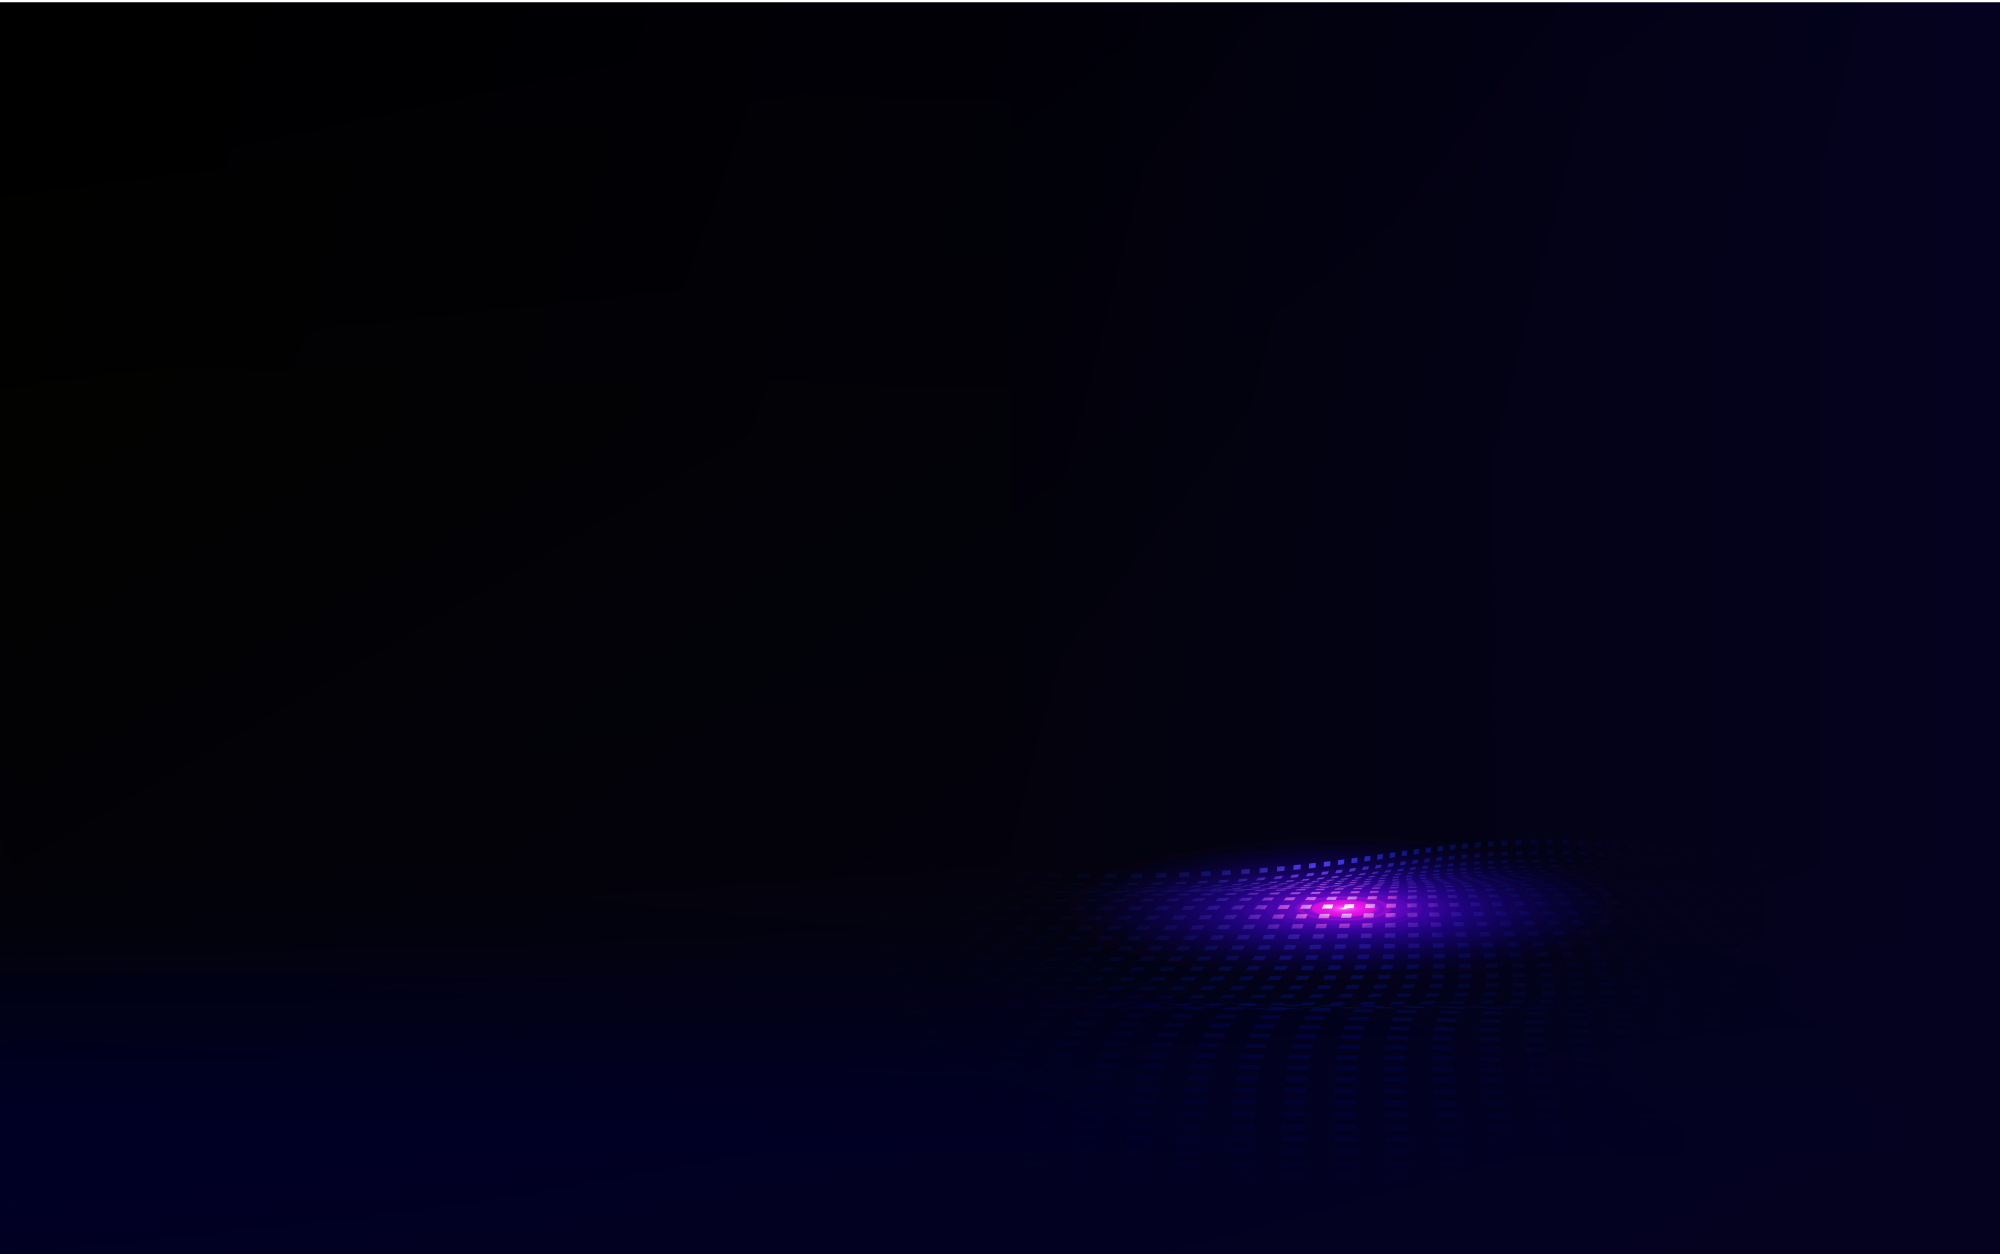
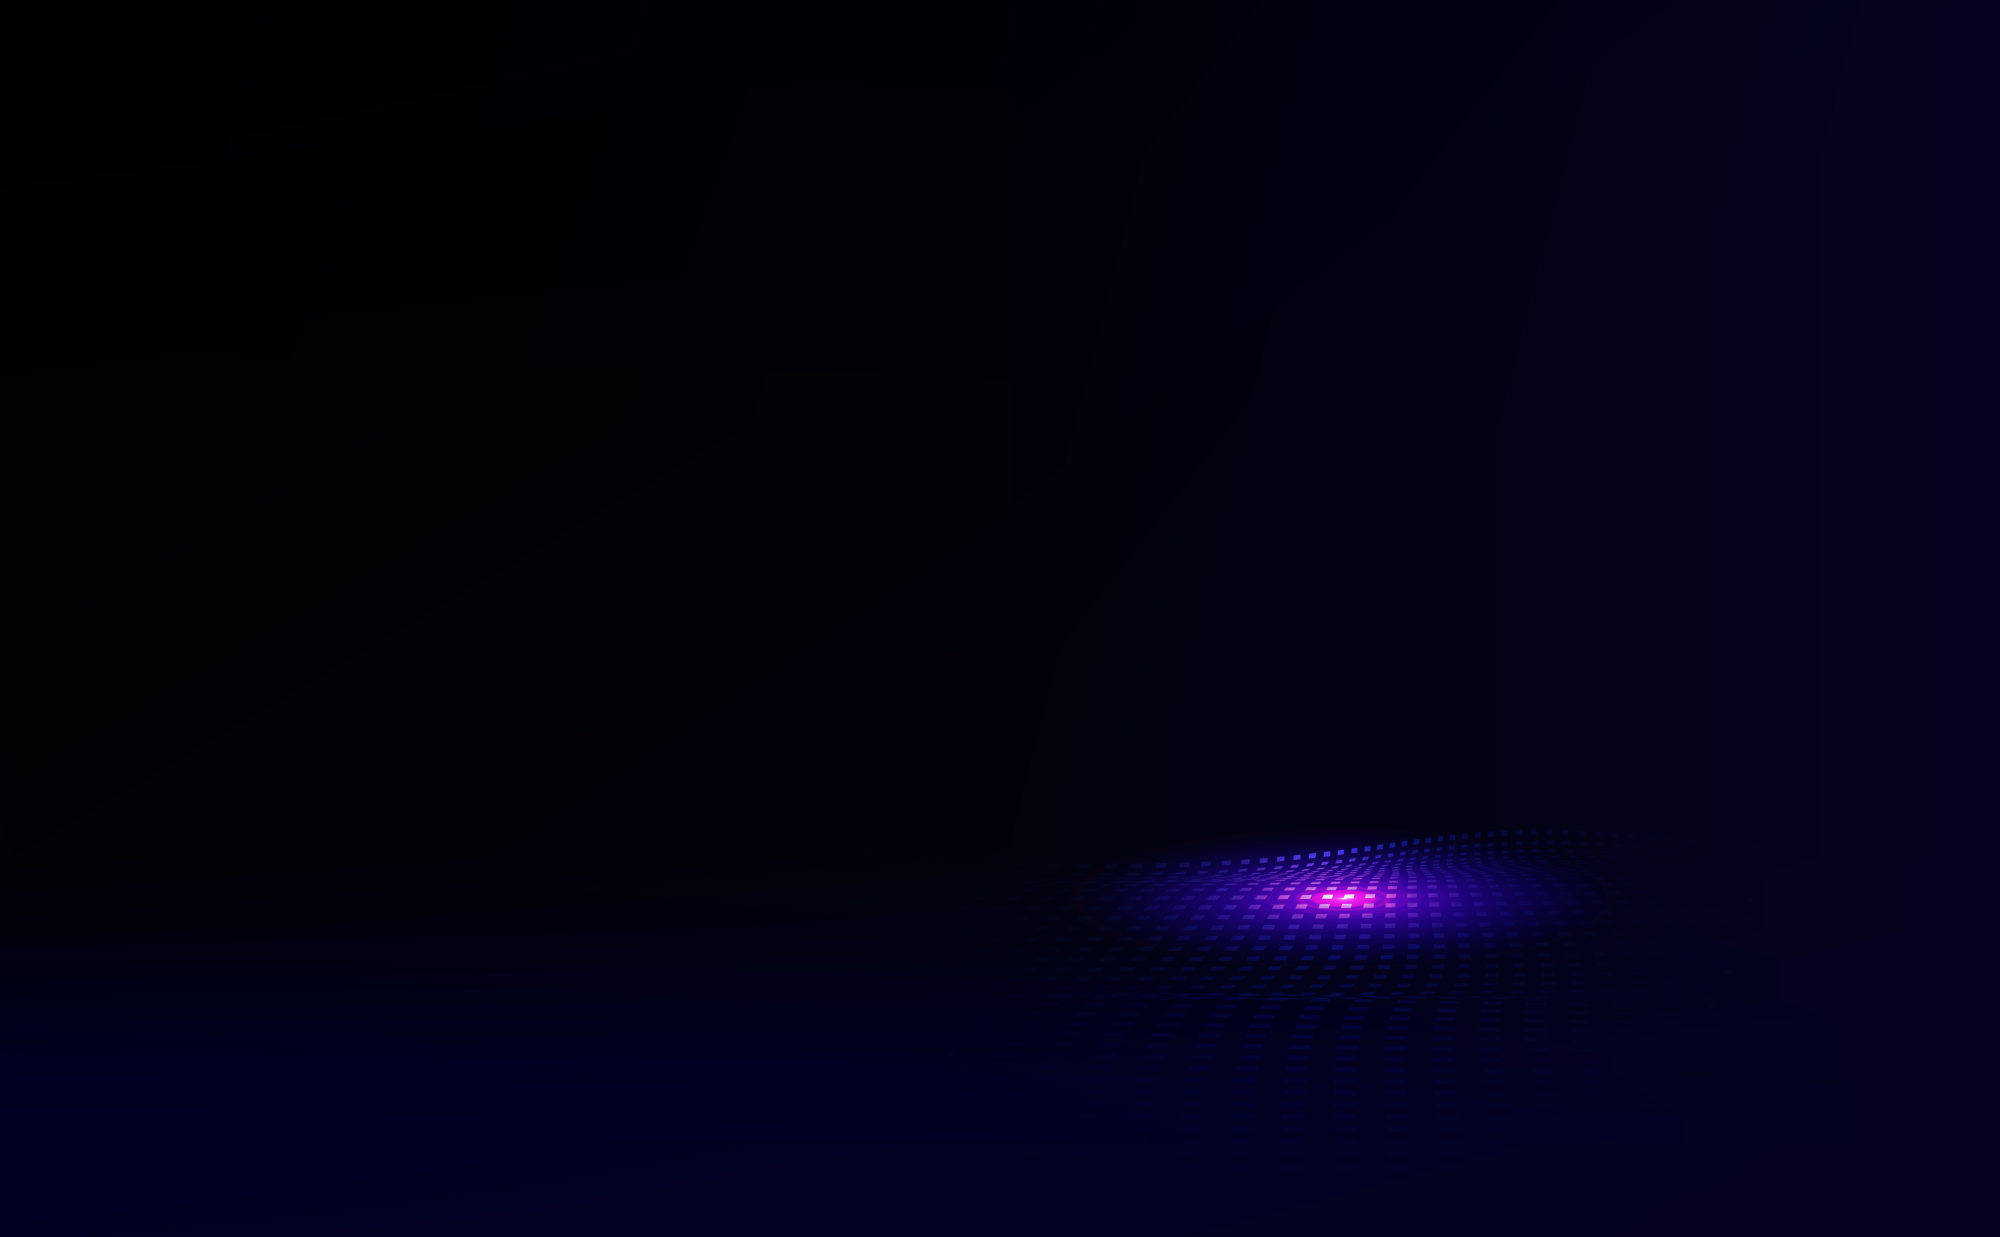
some changes

Changed region(s): [[0.589, 0.6758, 0.744, 0.8601]]

diff --git a/css/index.css b/css/index.css
@@ -15,13 +15,13 @@ html {
 /* ------------------ HERO ------------------ */
 
 .hero {
+  min-height: 100vh;
   display: grid;
   grid-template-rows: 1fr 2fr 1fr;
   grid-template-columns: 1fr 1fr;
-  height: 100vh;
   align-items: center;
   background: url(../images/background.png);
-  background-position: left;
+  background-position: center;
   background-size: cover;
   color: white;
 }
@@ -40,16 +40,17 @@ html {
 }
 
 .hero-info h2 {
+  margin-bottom: 2rem;
   font-family: 'Poppins', sans-serif;
   font-weight: bold;
   font-size: 3rem;
   text-transform: uppercase;
   letter-spacing: 0.115em;
   line-height: 4rem;
-  margin-bottom: 2rem;
 }
 
 .hero-info p {
+  font-size: 20px;
   line-height: 2rem;
 }
 
@@ -121,10 +122,6 @@ html {
     font-size: 2rem;
     line-height: 2.5rem;
   }
-
-  .hero #particles {
-    width: 18rem;
-  }
 }
 
 /* ------------------ ABOUT ------------------ */
@@ -152,6 +149,7 @@ html {
 
 .about p {
   margin-bottom: 2rem;
+  font-size: 18px;
   line-height: 144.6%;
 }
 
@@ -198,9 +196,9 @@ html {
   display: grid;
   grid-template-columns: 1fr 1fr;
   align-items: center;
+  padding: 10rem 0;
   background-color: #010004;
   color: white;
-  padding: 10rem 0;
 }
 
 .info-section {
@@ -219,14 +217,15 @@ html {
 
 .info-info p {
   margin-bottom: 8.75rem;
+  font-size: 18px;
   line-height: 144.6%;
 }
 
 .info form h4 {
   margin-bottom: 0.5rem;
-  text-transform: uppercase;
   font-size: 24px;
   font-weight: bold;
+  text-transform: uppercase;
   letter-spacing: 0.115em;
   line-height: 115.5%;
 }
